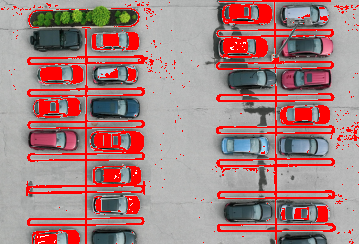
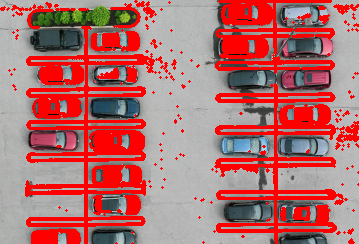
Replace list usage with set and deque. O(n) -> O(1). Fixed unreasonable loading times

diff --git a/6.7/utils.py b/6.7/utils.py
@@ -1,111 +1,141 @@
 from PIL import Image
 import math
+from collections import deque
 
-# Find Gray colour
+# Find asphalt colour
 def colourInterest(file):
-    grayScale = [] # Gray (Colour consistancy)
+    # Initalization
+    grayScale = []  # List of all gray colours
     w = file.width
     h = file.height
     pixels = file.load()
+
+    # Check only 100 pixels per row and column
     stepW = w//100
     stepH = h//100
+
+    # Avoid step of 0
     if stepW == 0:
         stepW = 1
     if stepH == 0:
         stepH = 1
+
+    # Interate through pixels (Every 100)
     for col in range(0, w, stepW):
         for row in range(0, h, stepH):
             r, g, b = pixels[col,row]
-            avg = (r+g+b)//3
-            if avg > 200 or avg < 50:
+            avg = (r+g+b)//3          # Gray scale
+            if avg > 200 or avg < 50: # Too light or too dark
                 continue
-            avgRange = (avg-2, avg+2)
-            if avgRange[0] < r and r < avgRange[1] and avgRange[0] < g and g < avgRange[1] and avgRange[0] < b and b < avgRange[1]:
+            avgRange = (avg-2, avg+2) # Colour tolerance
+            if avgRange[0] < r and r < avgRange[1] and avgRange[0] < g and g < avgRange[1] and avgRange[0] < b and b < avgRange[1]: # Is gray
                 grayScale.append(avg)
-    avgGray = sum(grayScale)//len(grayScale)
+    avgGray = sum(grayScale)//len(grayScale) # Average gray value (Of all gray pixels)
     return avgGray
 
-# Find other colours (cars, medians); return 
+# Find other colours (cars, medians)
 def otherColours(file, avgGray):
-    blacklistRaw = []
-    blacklist = []
+    # Initalization
+    blacklistRaw = []  # Individual pixel blacklist
+    blacklist = []     # Bounding box blacklist
+    allVisited = set() # Use set to avoid O(n) lookup
     w = file.width
     h = file.height
     pixels = file.load()
+
+    # Check only 100 pixels per row and column
     stepW = w//100
     stepH = h//100
+
+    # Avoid step of 0
     if stepW == 0:
         stepW = 1
     if stepH == 0:
         stepH = 1
+
+    # Interate through pixels (Every 100)
     for col in range(0, w, stepW):
         for row in range(0, h, stepH):
+            if (col, row) in allVisited: # Skip already visited pixels
+                continue
             r, g, b = pixels[col,row]
-            avgRange = (avgGray-2, avgGray+2)
-            isGray = avgRange[0] < r and r < avgRange[1] and avgRange[0] < g and g < avgRange[1] and avgRange[0] < b and b < avgRange[1]
-            if not isGray:
-                blacklistRaw.append(bfs(file, (col, row), (r, g, b)))
-    for i in range(len(blacklistRaw)):
-        minXArray, maxXArray = nestedMinMaxFinder(blacklistRaw[i], 0)
-        minX, maxX = minXArray[0], maxXArray[1]
-        minYArray, maxYArray = nestedMinMaxFinder(blacklistRaw[i], 1)
-        minY, maxY = minYArray[0], maxYArray[1]
-        blacklist.append((minX, maxX, minY, maxY))
+            avgRange = (avgGray-2, avgGray+2) # Colour tolerance
+            isGray = avgRange[0] < r and r < avgRange[1] and avgRange[0] < g and g < avgRange[1] and avgRange[0] < b and b < avgRange[1] # Is pixel gray
+            if not isGray:                                 # Is pixel not gray (Car/median; not asphalt)
+                visited = bfs(file, (col, row), (r, g, b)) # Find neighbouring pixels of same colour
+                allVisited.update(visited)                 # Update allVisited set
+                blacklistRaw.append(visited)               # Add to blacklist raw
+    # Deprecated (maybe)
+    # for i in range(len(blacklistRaw)):
+    #     minXArray, maxXArray = nestedMinMaxFinder(blacklistRaw[i], 0)
+    #     minX, maxX = minXArray[0], maxXArray[1]
+    #     minYArray, maxYArray = nestedMinMaxFinder(blacklistRaw[i], 1)
+    #     minY, maxY = minYArray[0], maxYArray[1]
+    #     blacklist.append((minX, maxX, minY, maxY))
     return blacklistRaw
 
-# Find white lines
+# Find white lines (Parking lines)
 def whiteLinesFinder(file, start, blacklist):
-    whiteLinesRaw = []
-    allVisited = []
+    # Initalization
+    whiteLinesRaw = [] # Individual white pixels (excluding cars)
+    allVisited = set() # Use set to avoid O(n) lookup
     w = file.width
     h = file.height
     pixels = file.load()
+
+    # Check only 250 pixels per row and column
     stepW = w//250
     stepH = h//250
+
+    # Avoid step of 0
     if stepW == 0:
         stepW = 1
     if stepH == 0:
         stepH = 1
+
+    # Interate through pixels (Every 250)
     for col in range(start[0], w, stepW):
         for row in range(start[1], h, stepH):
             r, g, b = pixels[col,row]
-            avgRange = (190, 255)
-            isWhite = avgRange[0] < r and r < avgRange[1] and avgRange[0] < g and g < avgRange[1] and avgRange[0] < b and b < avgRange[1]
+            avgRange = (190, 255) # White colour range/tolerance
+            isWhite = avgRange[0] < r and r < avgRange[1] and avgRange[0] < g and g < avgRange[1] and avgRange[0] < b and b < avgRange[1] # Is pixel white
             if isWhite:
-                if (col, row) not in allVisited:
-                    if (col, row) in blacklist:
+                if (col, row) not in allVisited: # Skip already visited pixels
+                    if (col, row) in blacklist:  # Skip blacklisted pixels
                         continue
-                    visited = bfs(file, (col, row), "white")
-                    allVisited += visited
-                    whiteLinesRaw.append(visited)
-    if not allVisited:
-        return whiteLinesFinder(file, (stepW//2, stepH//2), blacklist)
-    return whiteLinePartitioner(whiteLinesRaw)
+                    visited = bfs(file, (col, row), "white")           # Find neighbouring white pixels (configured to "white" for custom range)
+                    allVisited.update(visited)                         # Update allVisited set
+                    whiteLinesRaw.append(list(visited))            # Add to whiteLinesRaw
+    if not allVisited:                                                 # No white pixels found
+        return whiteLinesFinder(file, (stepW//2, stepH//2), blacklist) # Retry with offset start point (half of previous step)
+    return whiteLinePartitioner(whiteLinesRaw)                         # Return partitioned white lines (Segments; edges intercept other segments) (Possibly deprecated)
 
 def whiteLinePartitioner(whiteLinesRaw):
     whiteLines = []
-    # Implement partitioning logic here
+    # Implement partitioning logic here (maybe)
     return whiteLinesRaw
 
-# Breadth First Search to find clumps of colours
+# Breadth First Search to find neighbouring pixels of colour range
 def bfs(file, start, colours):
-    visited = []
-    queue = [start]
+    # Initalization
+    visited = set()        # Use set to avoid O(n) lookup
+    queue = deque([start]) # Use deque to avoid O(n) poping
     w = file.width
     h = file.height
     pixels = file.load()
-    # import pdb; pdb.set_trace()
+
+    # BFS Loop
     while queue:
-        col, row = queue.pop(0)
-        if (col, row) in visited:
+        col, row = queue.popleft()
+        if (col, row) in visited: # Skip already visited pixels
             continue
-        visited.append((col, row))
+        visited.add((col, row))   # Mark current pixel as visited
         r, g, b = pixels[col, row]
-        if colours == "white":
+        if colours == "white":    # Custom white range
             colourRange = [(190, 255), (190, 255), (190, 255)]
         else:
-            colourRange = [(colours[0]-10, colours[0]+10), (colours[1]-10, colours[1]+10), (colours[2]-10, colours[2]+10)]
-        inRange = colourRange[0][0] < r and r < colourRange[0][1] and colourRange[1][0] < g and g < colourRange[1][1] and colourRange[2][0] < b and b < colourRange[2][1]
+            colourRange = [(colours[0]-10, colours[0]+10), (colours[1]-10, colours[1]+10), (colours[2]-10, colours[2]+10)] # Colour tolerance
+        inRange = colourRange[0][0] < r and r < colourRange[0][1] and colourRange[1][0] < g and g < colourRange[1][1] and colourRange[2][0] < b and b < colourRange[2][1] # Is pixel colour in colour range
         # Left
         if col != 0:
             if inRange and not (col-1, row) in visited:
@@ -122,14 +152,16 @@ def bfs(file, start, colours):
         if row != h-1:
             if inRange and not (col, row+1) in visited:
                 queue.append((col, row+1))
-    return visited
+    return list(visited) # Return visited pixels (Clump/area)
 
-# Find min and max values in a nested array; returns the array with the desired value
+# Find min and max values in a nested array; returns the nested array with the desired value
 def nestedMinMaxFinder(array, index):
+    # Initalization
     minVal = math.inf
     minArray = []
     maxVal = -math.inf
     maxArray = []
+    # Find min and max
     for i in range(len(array)):
         if array[i][index] < minVal:
             minVal = array[i][index]

diff --git a/6.7/main.py b/6.7/main.py
@@ -1,7 +1,7 @@
 from PIL import Image
 import utils
 
-for i in range(1, 10):
+for i in range(0, 10):
     try:
         file = Image.open(f"6.7/images/image_{i+1}.png")
         file = file.convert("RGB")

diff --git a/6.7/TODO.md b/6.7/TODO.md
@@ -1,13 +1,2 @@
-# TODO
-## Find White Lines
-[x] Search: 250 x 250.  
-[ ] Use Breadth First Search to search whole branch.  
-[ ] Colour tolerance: 215 - 255 (avg).  
-<!-- [ ] Branch distance tolerance: 3 pixels.   -->
-## Find Spots
-[ ] Parition white lines into segments.
-- [ ] Find all ends and interception points
-- [ ] Seperate at perpendicular $\perp$ interception points.
-
-[ ] Find parking lot orientation using ratios of segments.  
-[ ] Min distance $\frac{ScreenHeight/Width}{20}$ pixels (Prevent counting paddings).  
+start over?  
+ts too difficult gng 🥀
